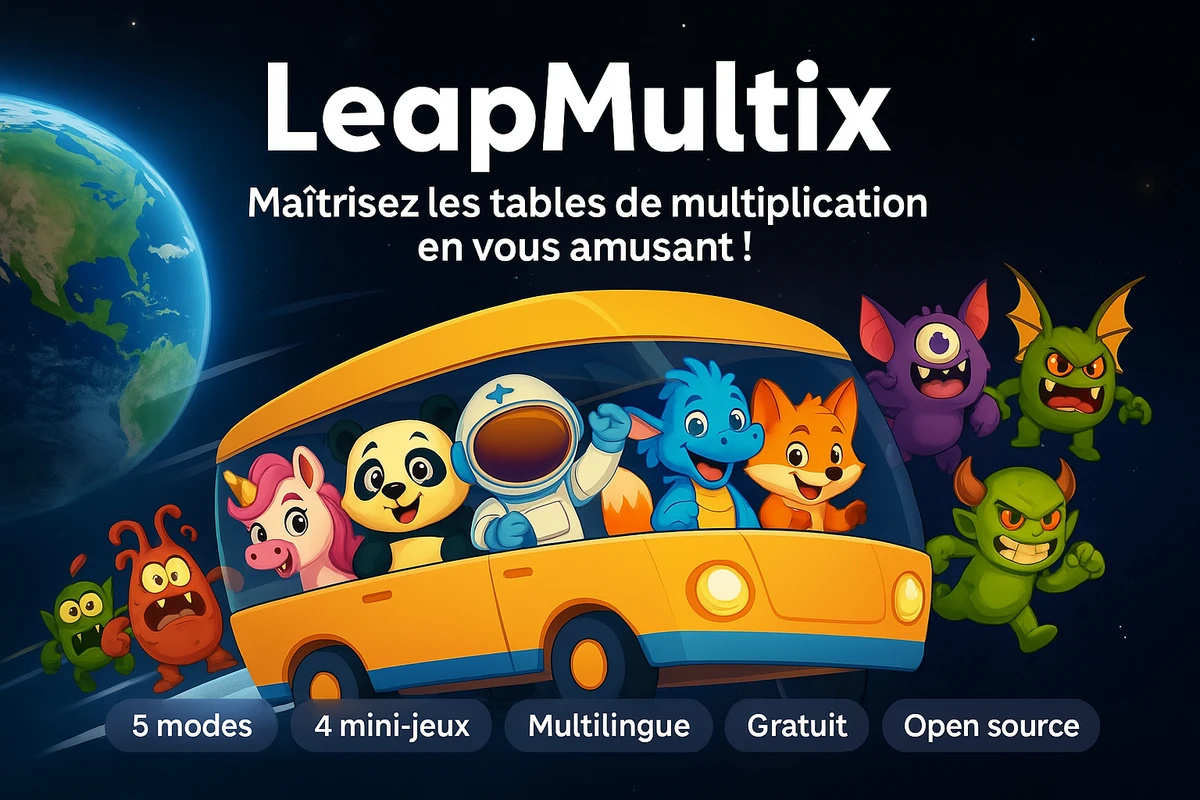
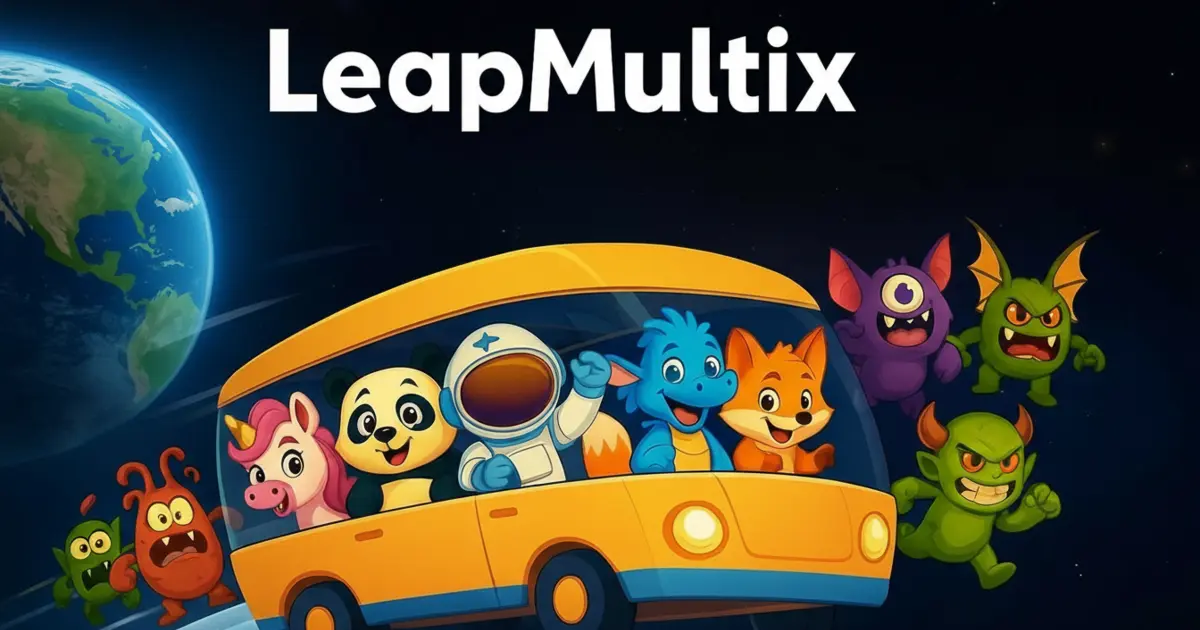
chore(assets): unify social card image for all languages
- Replace language-specific social cards with single multilingual version
- Remove social card text overlay for better i18n support
- Reduce file size from 145KB to 47KB per image
- Update main-helpers.js to reference unified image

diff --git a/js/main-helpers.js b/js/main-helpers.js
@@ -7,8 +7,8 @@ import Storage from './core/storage.js';
 const AVATAR_LIST = ['fox', 'panda', 'unicorn', 'dragon', 'astronaut'];
 const HERO_IMAGE_BY_LANG = {
   fr: 'assets/social/leapmultix-social-card.webp',
-  en: 'assets/social/leapmultix-social-card-en.webp',
-  es: 'assets/social/leapmultix-social-card-es.webp',
+  en: 'assets/social/leapmultix-social-card.webp',
+  es: 'assets/social/leapmultix-social-card.webp',
 };
 const HERO_DEFAULT_LANG = 'fr';
 
